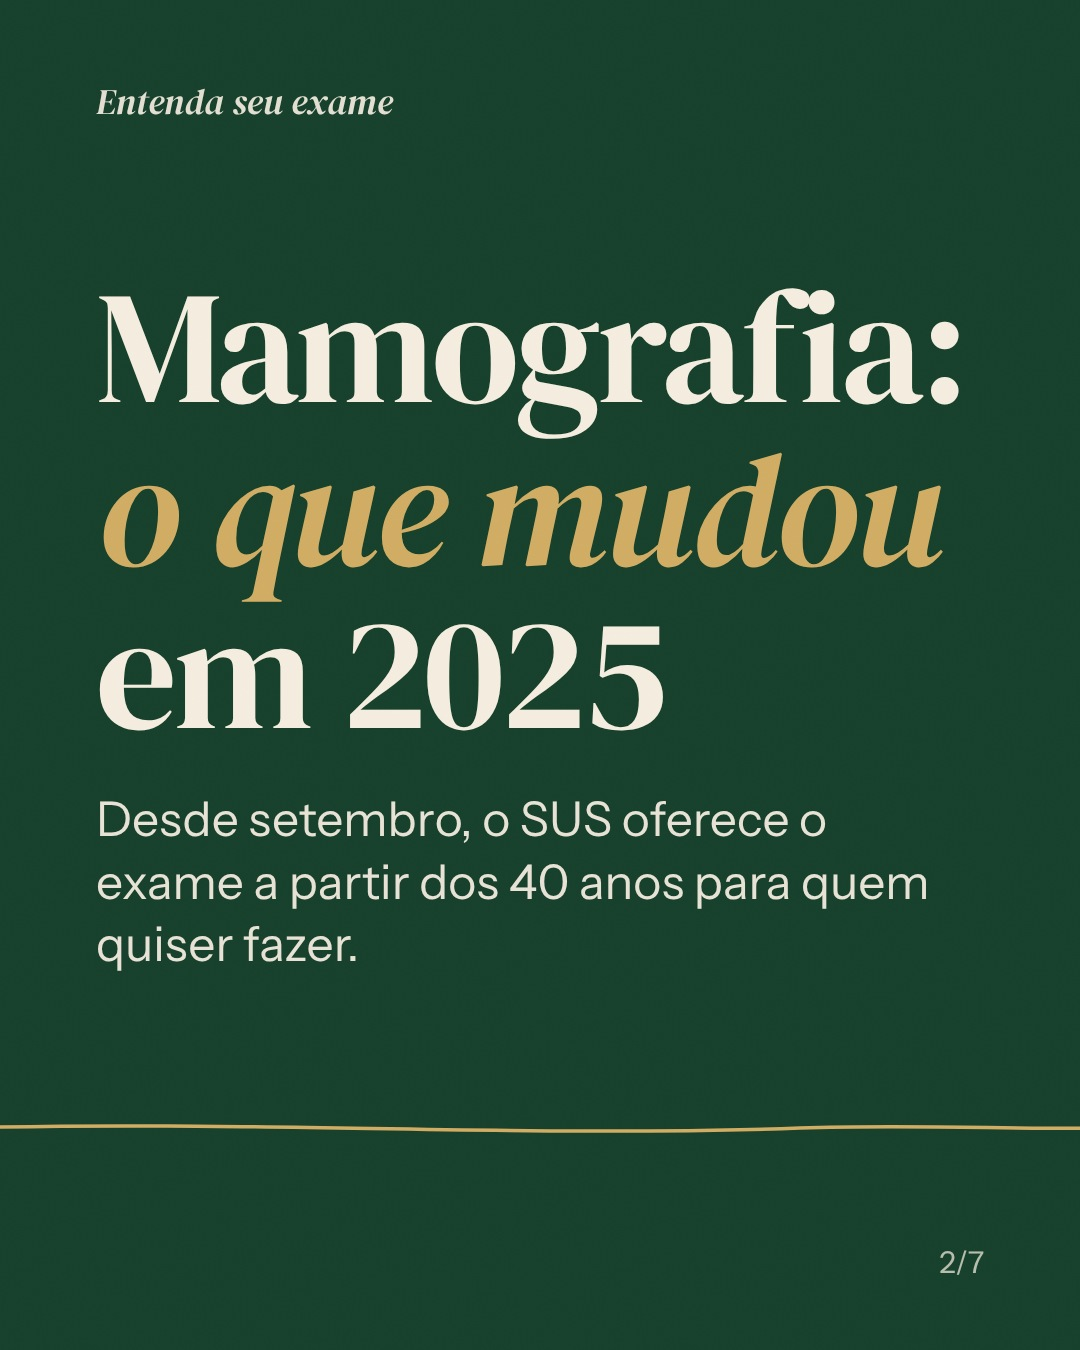
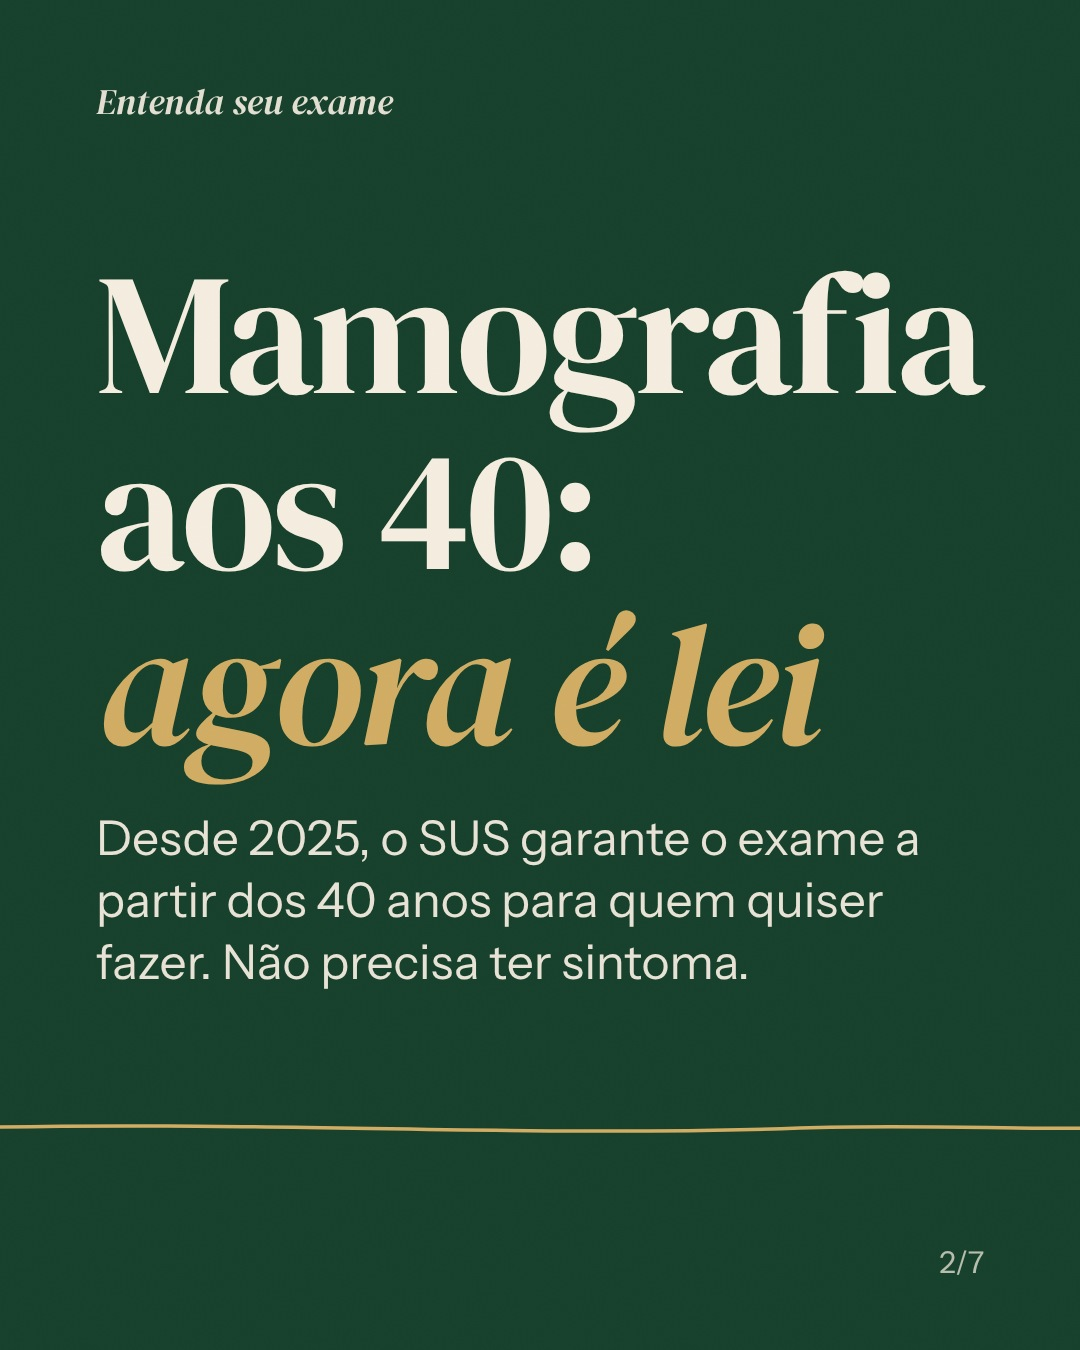
Mamografia aos 40: afirmações conferidas na fonte e texto corrigido para publicar
- Slide 2 e capa: a regra de 2025 virou lei em dezembro (Lei 15.284/2025)
- 75 anos ou mais: mesma regra dos 40 a 49 (por demanda, depois da conversa)
- Histórico familiar: o médico avalia o risco e define o acompanhamento
- Legenda e fontes atualizadas (Ministério da Saúde, INCA 2025 e 2026, lei)

Claude-Session: https://claude.ai/code/session_01FgFdxNoaAXjjgoT2v4N8ex

Changed region(s): [[0.0917, 0.1867, 0.9167, 0.7467]]

diff --git a/dir/lote2_textos.py b/dir/lote2_textos.py
@@ -29,8 +29,11 @@ MS_HAS = "Ministério da Saúde. Protocolo de hipertensão arterial sistêmica, 
 SBC_2020 = "Sociedade Brasileira de Cardiologia. Diretrizes Brasileiras de Hipertensão Arterial 2020 - https://www.scielo.br/j/abc/a/Z6m5gGNQCvrW3WLV7csqbqh/?lang=pt"
 FEBRASGO = "FEBRASGO. Endometriose afeta uma em cada dez mulheres em idade fértil no Brasil (dor intensa no ciclo menstrual não é normal) - https://www.febrasgo.org.br/pt/noticias/item/2046-endometriose-doenca-afeta-uma-em-cada-dez-mulheres-em-idade-fertil-no-brasil"
 OMS_ENDO = "Organização Mundial da Saúde. Endometriosis (o que é; sintomas; demora no diagnóstico) - https://www.who.int/news-room/fact-sheets/detail/endometriosis"
-MS_MAMO = "Agência Brasil. Ministério da Saúde passa a recomendar mamografia a partir dos 40 anos (setembro de 2025) - https://agenciabrasil.ebc.com.br/saude/noticia/2025-09/ministerio-da-saude-passa-recomendar-mamografia-partir-dos-40-anos"
-INCA = "INCA. Dados e números sobre câncer de mama - https://www.inca.gov.br/sites/ufu.sti.inca.local/files/media/document/relatorio_dados-e-numeros-ca-mama-2023.pdf"
+MS_MAMO = "Agência Brasil, 23/09/2025. Ministério da Saúde passa a recomendar mamografia a partir dos 40 anos (40 a 49: sob demanda, em decisão conjunta com o profissional; rastreamento até os 74; 23% dos casos entre 40 e 49 anos) - https://agenciabrasil.ebc.com.br/saude/noticia/2025-09/ministerio-da-saude-passa-recomendar-mamografia-partir-dos-40-anos"
+LEI_MAMO = "Lei nº 15.284, de 18/12/2025 (garante a mamografia a todas as mulheres a partir dos 40 anos, conforme as diretrizes do Ministério da Saúde) - https://www.planalto.gov.br/ccivil_03/_ato2023-2026/2025/lei/L15284.htm"
+NT_MAMO = "Ministério da Saúde. Nota Técnica nº 626/2025-CGCAN/DECAN/SAES/MS, de 26/09/2025 (50 a 74 anos: rastreamento a cada dois anos; 40 a 49 e acima de 74: por demanda, com orientação sobre riscos e benefícios), resumida no informe do INCA - https://ninho.inca.gov.br/jspui/handle/123456789/17713"
+INCA_CARTILHA = "INCA. Cartilha Câncer de mama, 11ª edição, 2026 (sinais e sintomas; 50 a 74 anos a cada dois anos; mama densa antes da menopausa; histórico familiar: conversar com o médico) - https://ninho.inca.gov.br/jspui/bitstream/123456789/18158/1/cartilha-mama-2026%20-%20DefesoEleitoral.pdf"
+INCA_FERRAMENTA = "INCA. Ferramenta de apoio à decisão sobre o rastreamento mamográfico, 2025 (falso-positivo, biópsia e sobrediagnóstico entre 40 e 49 anos) - https://ninho.inca.gov.br/jspui/bitstream/123456789/17734/1/INCA%20ferramenta%20rastreamento-mamo%20A4%202025%20%282%29.pdf"
 ABCD = "Arquivos Brasileiros de Cirurgia Digestiva (ABCD). Revisão sobre colelitíase - http://www.scielo.br/j/abcd/a/yp8jRmJGgy3DZnkpyg8cTbk/?lang=en"
 SBC_MULHER = "Sociedade Brasileira de Cardiologia. Posicionamento sobre Doença Isquêmica do Coração: a Mulher no Centro do Cuidado, 2023 - https://www.scielo.br/j/abc/a/NHTpGXKFCz7NKht5CYLDZZF/?lang=pt"
 AHA_MULHER = "American Heart Association. Heart attack symptoms in women - https://www.heart.org/en/health-topics/heart-attack/warning-signs-of-a-heart-attack/heart-attack-symptoms-in-women"
@@ -193,22 +196,26 @@ Fontes: FEBRASGO; Organização Mundial da Saúde.
              "Capa de número (a série dos exames usa número ou laudo na capa)",
              "Um quadro com o que vale para cada idade, e 1 em cada 4 casos mostrado com desenho"],
       quem_manda="A amiga manda para a amiga que fez 40. A filha manda para a mãe.",
-      fontes=[MS_MAMO, INCA],
-      legenda="""Mamografia aos 40: desde setembro de 2025, o SUS garante o exame a partir dessa idade para quem quiser fazer.
+      conferido="2026-10-10", agenda="2026-10-10 20h",
+      correcoes=["“Desde setembro” ficaria errado em 2026: virou “Desde 2025” e entrou a lei de dezembro de 2025 (Lei 15.284), que garante o exame a partir dos 40",
+                 "75 anos ou mais: a regra oficial é a mesma dos 40 a 49 (por demanda, depois da conversa sobre riscos e benefícios)",
+                 "Histórico familiar: o INCA não tem recomendação padrão para esse grupo; o texto passou a dizer que o médico avalia o risco e define o acompanhamento"],
+      fontes=[MS_MAMO, NT_MAMO, LEI_MAMO, INCA_CARTILHA, INCA_FERRAMENTA],
+      legenda="""Mamografia aos 40: agora é lei. Desde 2025, o SUS garante o exame a partir dessa idade para quem quiser fazer, mesmo sem sintoma.
 
 O que muda na prática:
 
 • 40 a 49 anos: não é convocação. Você conversa com o profissional de saúde sobre os prós e os contras e decide.
 • 50 a 74 anos: o exame é recomendado a cada 2 anos, mesmo sem sintoma.
 
-Por que existe conversa antes dos 50? Nessa faixa, a mama costuma ser mais densa e o exame dá mais alarme falso, com biópsia que não precisava. Para muitas mulheres ainda vale a pena. A decisão é sua, com informação.
+Por que existe conversa antes dos 50? Antes da menopausa, a mama costuma ser mais densa e o exame erra mais: dá alarme falso, com mais exames e, às vezes, biópsia que não precisava. Para muitas mulheres ainda vale a pena. A decisão é sua, com informação.
 
-Quem tem mãe, irmã ou filha com câncer de mama ou de ovário entra em outra regra: o acompanhamento começa mais cedo e é definido pelo médico.
+Mãe, irmã ou filha teve câncer de mama (principalmente antes dos 50) ou de ovário? A conversa é outra: o médico avalia o seu risco e define o acompanhamento.
 
 Envie para a amiga que fez 40.
 
 Conteúdo educativo, não substitui consulta.
-Fontes: Ministério da Saúde; INCA.
+Fontes: Ministério da Saúde; INCA; Lei 15.284/2025.
 
 #mamografia #cancerdemama #outubrorosa #saudedamulher #prevencao"""),
  dict(id="2026-10-03-pedra-na-vesicula", tipo="carrossel", serie="Sinais do corpo", titulo="Dor do lado direito depois de comer gordura.", antes=None,
@@ -284,8 +291,12 @@ Fontes: Sociedade Brasileira de Cardiologia; Ministério da Saúde.
 ]
 
 def registro(p, slides):
+    estado = ESTADO
+    if p.get("conferido"):
+        estado = f"conferido na fonte em {p['conferido']}" + (f"; agendado no Metricool para {p['agenda']} (hora de Boa Vista)" if p.get("agenda") else "")
     d = dict(id=p["id"], formato=p["formato"], serie=p["serie"], titulo=p["titulo"],
-             papel="segundo lote de teste de 03/10/2026: refeito a partir do retorno dele, não publicado", estado=ESTADO)
+             papel="segundo lote de 03/10/2026, refeito a partir do retorno dele; postagens liberadas por ele em 10/10/2026", estado=estado)
+    if p.get("correcoes"): d["corrigido_na_conferencia"] = p["correcoes"]
     if p["tipo"] == "carrossel":
         d["midia"] = [f"{BASE}/{p['id']}/{i:02d}.jpg" for i in range(1, slides + 1)]
     else:

diff --git a/dir/lote2.py b/dir/lote2.py
@@ -153,15 +153,15 @@ POSTS = [
  ]),
  # ---------------------------------------------------------------- 7. mamografia aos 40 (tema do público; capa de número; teste de letra: DM Serif)
  dict(slug="2026-10-03-mamografia-40", serie="Entenda seu exame", letra="dmserif", slides=[
-  ("num", "cream", dict(q="A mamografia já<br>pode começar aos", n="40", sub="O que mudou no SUS em 2025 e o que vale para cada idade.")),
-  ("ideia", "green", dict(pos="meio", h2="Mamografia:<br><i>o que mudou</i><br>em 2025", p="Desde setembro, o SUS oferece o exame a partir dos 40 anos para quem quiser fazer.")),
+  ("num", "cream", dict(q="A mamografia já<br>pode começar aos", n="40", sub="Agora é lei no SUS. Veja o que vale para cada idade.")),
+  ("ideia", "green", dict(pos="meio", h2="Mamografia<br>aos 40:<br><i>agora é lei</i>", p="Desde 2025, o SUS garante o exame a partir dos 40 anos para quem quiser fazer. Não precisa ter sintoma.")),
   ("ideia", "cream", dict(pos="topo", h2="O que vale para <i>cada idade</i>", fig="limpo",
-        des=A.idades([("40 a 49", "Pode fazer, depois de conversar com o profissional de saúde."), ("50 a 74", "A cada 2 anos, mesmo sem sintoma nenhum."), ("75 ou +", "A decisão é caso a caso, com o médico.")]))),
+        des=A.idades([("40 a 49", "Pode fazer, depois de conversar com o profissional de saúde."), ("50 a 74", "A cada 2 anos, mesmo sem sintoma nenhum."), ("75 ou +", "Pode fazer, depois da mesma conversa.")]))),
   ("ideia", "green", dict(h2="Por que olhar <i>antes dos 50</i>", p="Quase 1 em cada 4 casos de câncer de mama aparece entre os 40 e os 49 anos.", des=A.pessoas(4, 1, "woman", 230, 4))),
   ("lista", "cream", dict(k="Em qualquer idade", h2="Não espere o exame se notar", rows=[(hi("magnifying_glass", 92), "Caroço na mama ou na axila"), (hi("breasts", 92), "Pele repuxada ou avermelhada"), (hi("blood_drop", 92), "Bico do peito que mudou ou solta líquido")], start=104)),
-  ("ideia", "green", dict(pos="topo", h2="Mãe ou irmã com câncer de mama?", p="Fale com o médico: o seu acompanhamento pode começar mais cedo.", des=A.linha([hi("old_woman", 260), hi("woman", 260)], 60))),
+  ("ideia", "green", dict(pos="topo", h2="Mãe ou irmã com câncer de mama?", p="Principalmente antes dos 50 anos: fale com o médico. Ele avalia o seu risco e define o seu acompanhamento.", des=A.linha([hi("old_woman", 260), hi("woman", 260)], 60))),
   ("fim", "cream", dict(h2="Para <i>guardar</i>", items=["40 a 49 anos: pode fazer, depois de conversar com o profissional de saúde.", "50 a 74 anos: a cada 2 anos, mesmo sem sintoma.", "Sinal na mama: procure avaliação em qualquer idade."],
-        env="Envie para a amiga que fez 40.", src="Fontes: Ministério da Saúde e INCA. " + AVISO)),
+        env="Envie para a amiga que fez 40.", src="Fontes: Ministério da Saúde, INCA e Lei 15.284/2025. " + AVISO)),
  ]),
  # ---------------------------------------------------------------- 8. pedra na vesícula (tema do público, com ponte para cirurgia)
  dict(slug="2026-10-03-pedra-na-vesicula", serie="Sinais do corpo", slides=[
